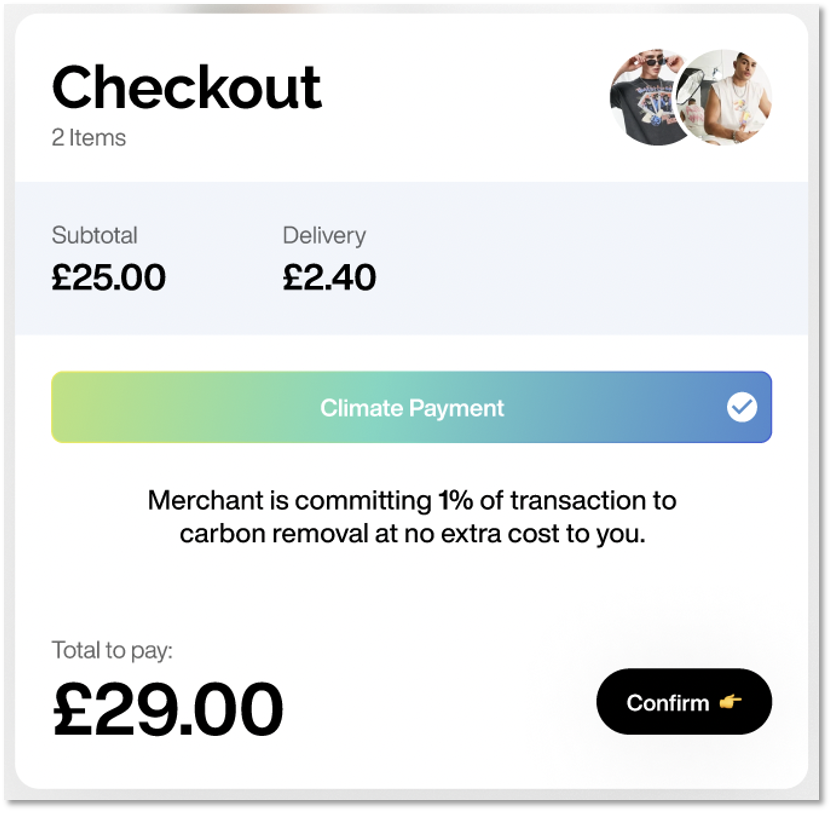
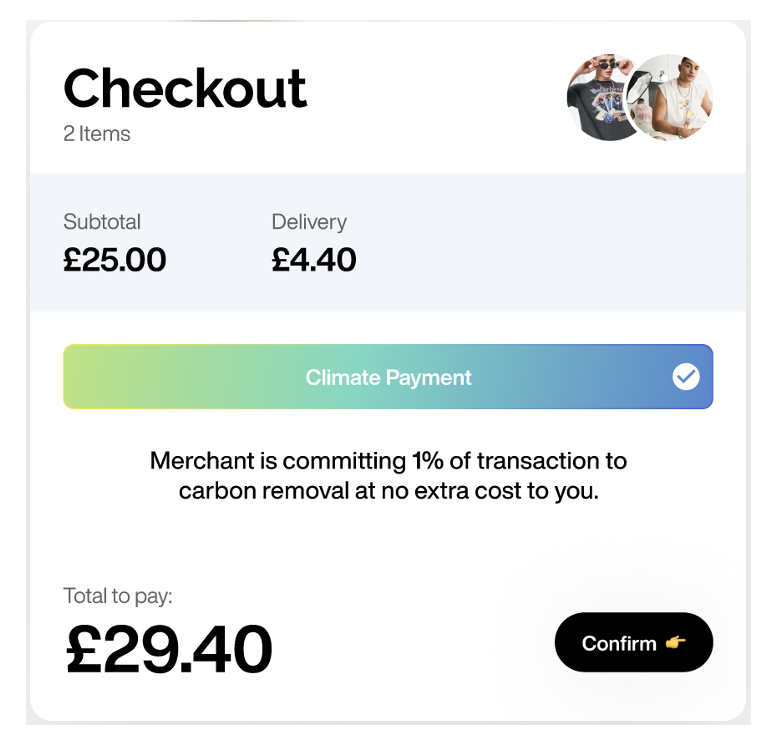
Small amendments (#5)
* Update openapi-vuepress-markdown to v0.0.8

* Refer to Bundles as Project Bundles

* Replace incorrect 1% checkout image

diff --git a/docs/src/guides/one-percent-contribution-towards-carbon-removal.md b/docs/src/guides/one-percent-contribution-towards-carbon-removal.md
@@ -2,7 +2,7 @@
 
 ## Pre-requisites
 * Please ensure you have access to [Lune’s dashboard](https://dashboard.lune.co/).
-* Ensure that you have selected your desired [default Bundle Selection](https://dashboard.lune.co/settings/bundle-selection). Orders are going to be placed according to your default Bundle Selection ratios.
+* Ensure that you have selected your desired [default Project Bundle Selection](https://dashboard.lune.co/settings/bundle-selection). Orders are going to be placed according to your default Project Bundle Selection ratios.
 
 ## Overview
 Implementing this feature requires the following steps:
@@ -32,7 +32,7 @@ This will increase conversions.
 
 As an example:
 
-<img :src="$withBase('/one-percent.png')" alt="one-percent-towards-carbon-removal">
+<img width="400" :src="$withBase('/one-percent.png')" alt="one-percent-towards-carbon-removal">
 
 ## Place an order by value
 First, calculate 1% of the checkout’s total cost.
